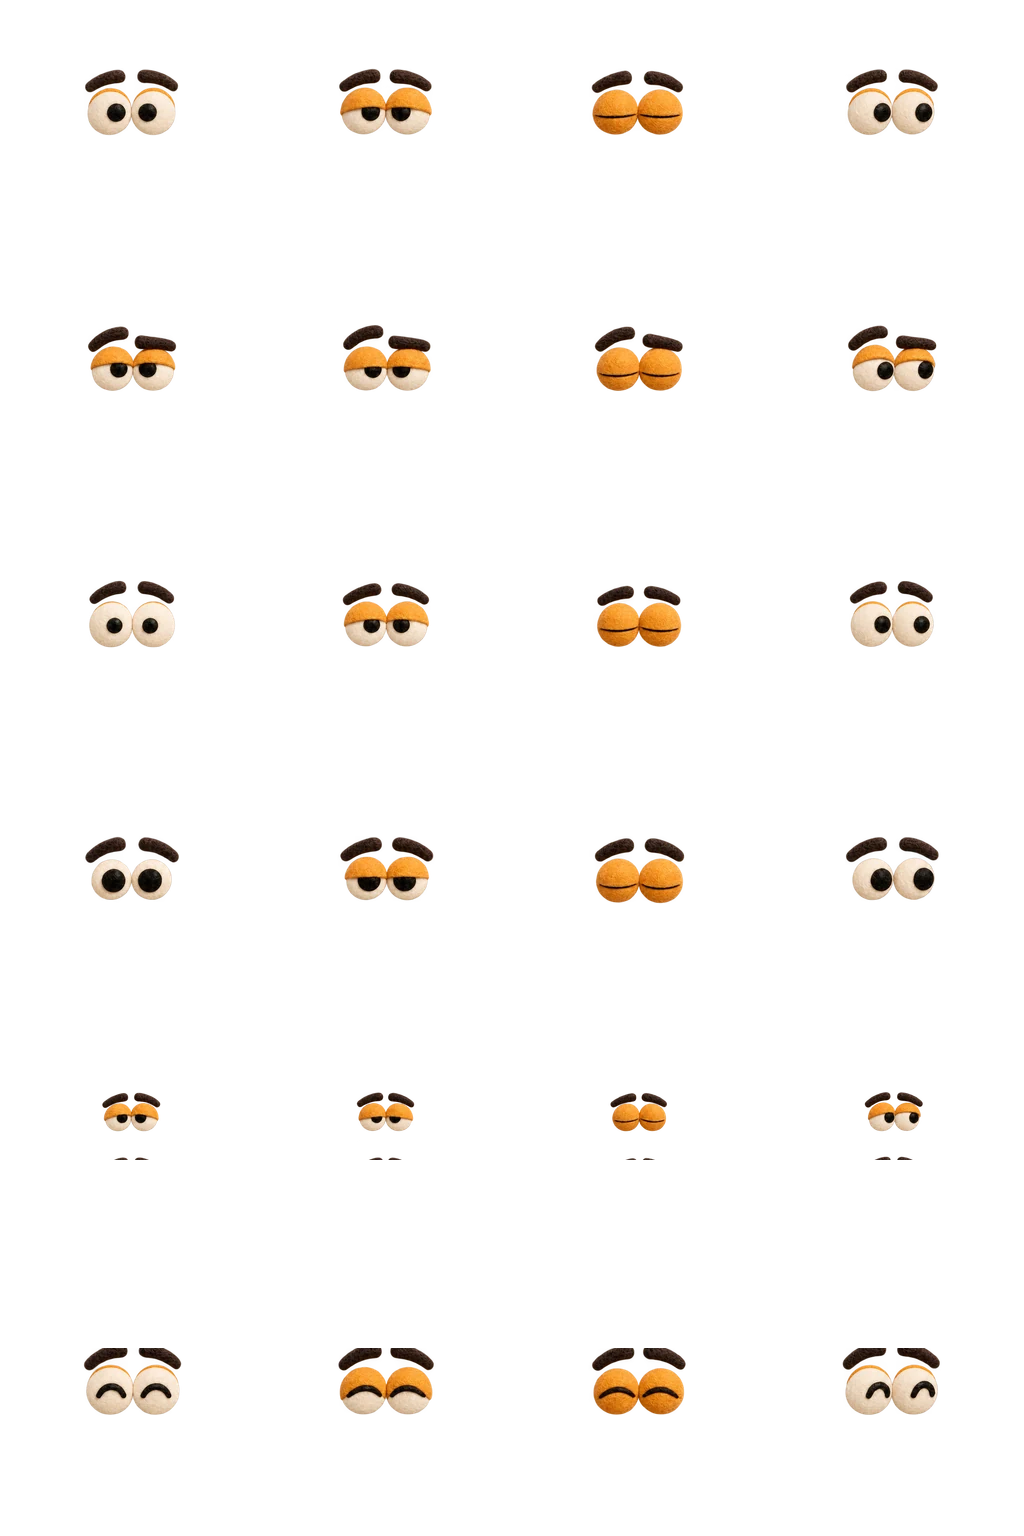
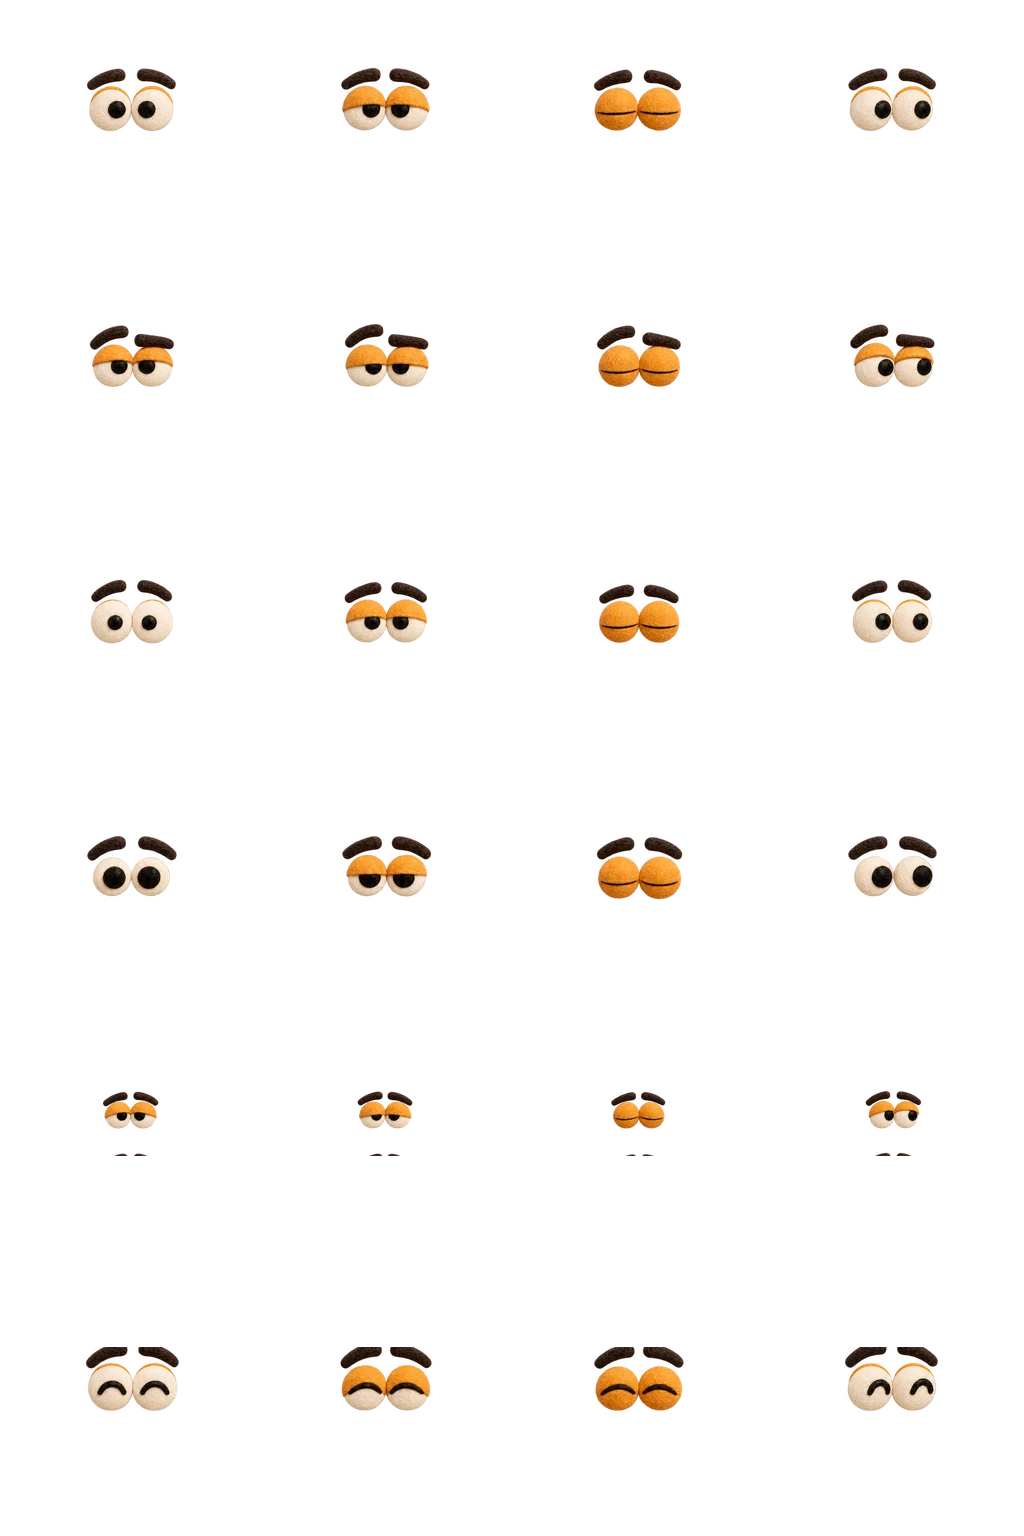
Correct puppet sprite registration, nose layering, garment isolation and uniform creator option grids

diff --git a/sans-voyelles/source/app/components/ProfileEditor.tsx b/sans-voyelles/source/app/components/ProfileEditor.tsx
@@ -8,5 +8,5 @@ export default function ProfileEditor({initial,legacyName='',onSave,onCancel,inR
  useEffect(()=>{const previous=document.activeElement as HTMLElement;const el=dialog.current;el?.querySelector<HTMLInputElement>('input')?.focus();function keyboard(e:KeyboardEvent){if(e.key==='Escape'){e.preventDefault();if(!savingRef.current)cancel.current?.();}if(e.key==='Tab'&&el){const items=Array.from(el.querySelectorAll<HTMLElement>('button:not(:disabled),input:not(:disabled),[tabindex="0"]'));const first=items[0],last=items[items.length-1];if(e.shiftKey&&document.activeElement===first){e.preventDefault();last?.focus()}else if(!e.shiftKey&&document.activeElement===last){e.preventDefault();first?.focus()}}}function keepFocus(e:FocusEvent){if(el&&!el.contains(e.target as Node))el.querySelector<HTMLElement>('input:not(:disabled),button:not(:disabled)')?.focus();}const original=document.body.style.overflow;document.body.style.overflow='hidden';document.addEventListener('keydown',keyboard);document.addEventListener('focusin',keepFocus);return()=>{document.body.style.overflow=original;document.removeEventListener('keydown',keyboard);document.removeEventListener('focusin',keepFocus);previous?.focus();}},[]);
  function step(key:PartKey,delta:number){const part=PARTS.find(p=>p.key===key)!;setAvatar(a=>({...a,[key]:(a[key]+part.options.length+delta)%part.options.length}));}
  async function save(e:React.FormEvent){e.preventDefault();if(saving)return;if(!name.trim()||name.trim().length>20){setError('Choisis un pseudo de 1 à 20 caractères.');return}setSaving(true);setError('');try{await onSave({version:1,name:name.trim(),avatar});}catch(e:any){setError(e.message||'Le profil n’a pas pu être enregistré. Réessaie.');setSaving(false);}}
- return <div className="modal-backdrop profile-backdrop"><div ref={dialog} className="profile-modal" role="dialog" aria-modal="true" aria-labelledby="profile-title">{onCancel&&<button type="button" className="close-modal" onClick={onCancel} disabled={saving} aria-label="Annuler les modifications"><X size={22}/></button>}<div className="eyebrow">{initial?'VOTRE SIGNATURE DANS LE SALON':'AVANT LE PREMIER DÉCLIC'}</div><h2 id="profile-title">{initial?'L’atelier de votre personnage':'Créez votre marionnette'}</h2><p className="profile-intro">De la laine, du feutre et votre grain de folie. Composez votre personnage, pièce par pièce.</p><form onSubmit={save}><fieldset disabled={saving} className="profile-fieldset"><div className="profile-editor-grid"><div className="profile-preview"><div className="avatar-stage"><span className="stage-star star-one">✳</span><Avatar value={avatar} label="Aperçu de votre avatar"/><span className="stage-star star-two">✧</span></div><strong>{name.trim()||'Votre futur pseudo'}</strong><span>UNE MARIONNETTE RIEN QU’À VOUS</span><button type="button" className="shuffle-all" onClick={()=>{setAvatar(a=>randomAvatar(a));setName(n=>randomName(n));}}><Shuffle size={17}/> Tout mélanger</button></div><div className="profile-controls"><div className="name-field"><label htmlFor="profile-name">Votre pseudo</label><div><input id="profile-name" name="pseudo" autoComplete="nickname" maxLength={20} required value={name} placeholder="Ex. KiwiCosmique" onChange={e=>setName(e.target.value)}/><button type="button" className="random-button" onClick={()=>setName(n=>randomName(n))} aria-label="Pseudo aléatoire" title="Pseudo aléatoire"><Shuffle size={17}/></button></div><small>{name.length}/20 caractères · Sauvegardé sur ce navigateur</small></div><div className="avatar-parts felt-parts">{PARTS.map(part=><fieldset className="felt-part" key={part.key}><legend>{part.label}</legend><button type="button" className="part-shuffle" onClick={()=>setAvatar(a=>shufflePart(a,part.key))} aria-label={part.label+' aléatoire'} title={part.label+' aléatoire'}><Shuffle size={15}/></button><div className="part-options" role="group" aria-label={part.label}>{part.options.map((option,i)=><button type="button" key={option} className={avatar[part.key]===i?'selected':''} aria-pressed={avatar[part.key]===i} aria-label={part.label+' : '+option} title={option} onClick={()=>setAvatar(a=>({...a,[part.key]:i}))}><Avatar value={{...avatar,[part.key]:i}} animated={false}/><span>{option}</span>{avatar[part.key]===i&&<Check size={12}/>}</button>)}</div></fieldset>)}</div><div className="color-field"><div><label>Couleur du personnage</label><button type="button" className="random-button" onClick={()=>setAvatar(a=>shuffleColor(a))} aria-label="Couleur aléatoire" title="Couleur aléatoire"><Shuffle size={16}/></button></div><div className="color-swatches" role="group" aria-label="Couleur du personnage">{COLORS.map((c,i)=><button key={c} type="button" style={{background:c}} aria-label={'Couleur '+['citron vert','lavande','pêche','turquoise','soleil','rose','bleu','crème','violet','pistache'][i]} aria-pressed={avatar.color===c} onClick={()=>setAvatar(a=>({...a,color:c}))}>{avatar.color===c&&<Check size={16}/>}</button>)}</div></div></div></div></fieldset>{error&&<div className="notice error" role="alert">{error}</div>}<div className="profile-bottom"><p>{inRoom?'La partie continue pendant les modifications. Votre score est conservé.':'Profil sauvegardé sur ce navigateur pour vos prochaines visites.'}</p><button type="submit" className="primary" disabled={saving}>{saving?'En cours…':initial?'Enregistrer':'C’est moi, on joue !'}<ArrowRight size={18}/></button></div></form></div></div>
+ return <div className="modal-backdrop profile-backdrop"><div ref={dialog} className="profile-modal" role="dialog" aria-modal="true" aria-labelledby="profile-title">{onCancel&&<button type="button" className="close-modal" onClick={onCancel} disabled={saving} aria-label="Annuler les modifications"><X size={22}/></button>}<div className="eyebrow">{initial?'VOTRE SIGNATURE DANS LE SALON':'AVANT LE PREMIER DÉCLIC'}</div><h2 id="profile-title">{initial?'L’atelier de votre personnage':'Créez votre marionnette'}</h2><p className="profile-intro">De la laine, du feutre et votre grain de folie. Composez votre personnage, pièce par pièce.</p><form onSubmit={save}><fieldset disabled={saving} className="profile-fieldset"><div className="profile-editor-grid"><div className="profile-preview"><div className="avatar-stage"><span className="stage-star star-one">✳</span><Avatar value={avatar} label="Aperçu de votre avatar"/><span className="stage-star star-two">✧</span></div><strong>{name.trim()||'Votre futur pseudo'}</strong><span>UNE MARIONNETTE RIEN QU’À VOUS</span><button type="button" className="shuffle-all" onClick={()=>{setAvatar(a=>randomAvatar(a));setName(n=>randomName(n));}}><Shuffle size={17}/> Tout mélanger</button></div><div className="profile-controls"><div className="name-field"><label htmlFor="profile-name">Votre pseudo</label><div><input id="profile-name" name="pseudo" autoComplete="nickname" maxLength={20} required value={name} placeholder="Ex. KiwiCosmique" onChange={e=>setName(e.target.value)}/><button type="button" className="random-button" onClick={()=>setName(n=>randomName(n))} aria-label="Pseudo aléatoire" title="Pseudo aléatoire"><Shuffle size={17}/></button></div><small>{name.length}/20 caractères · Sauvegardé sur ce navigateur</small></div><div className="avatar-parts felt-parts">{PARTS.map(part=><fieldset className="felt-part" key={part.key}><legend>{part.label}</legend><button type="button" className="part-shuffle" onClick={()=>setAvatar(a=>shufflePart(a,part.key))} aria-label={part.label+' aléatoire'} title={part.label+' aléatoire'}><Shuffle size={15}/></button><div className="part-options" role="group" aria-label={part.label}>{part.options.map((option,i)=><button type="button" key={option} className={avatar[part.key]===i?'selected':''} aria-pressed={avatar[part.key]===i} aria-label={part.label+' : '+option} title={option} onClick={()=>setAvatar(a=>({...a,[part.key]:i}))}><Avatar value={{...avatar,[part.key]:i}} animated={false}/><span>{option}</span>{avatar[part.key]===i&&<Check size={12}/>}</button>)}{Array.from({length:7-part.options.length},(_,i)=><span className="part-placeholder" aria-hidden="true" key={'empty-'+i}/>)}</div></fieldset>)}</div><div className="color-field"><div><label>Couleur du personnage</label><button type="button" className="random-button" onClick={()=>setAvatar(a=>shuffleColor(a))} aria-label="Couleur aléatoire" title="Couleur aléatoire"><Shuffle size={16}/></button></div><div className="color-swatches" role="group" aria-label="Couleur du personnage">{COLORS.map((c,i)=><button key={c} type="button" style={{background:c}} aria-label={'Couleur '+['citron vert','lavande','pêche','turquoise','soleil','rose','bleu','crème','violet','pistache'][i]} aria-pressed={avatar.color===c} onClick={()=>setAvatar(a=>({...a,color:c}))}>{avatar.color===c&&<Check size={16}/>}</button>)}</div></div></div></div></fieldset>{error&&<div className="notice error" role="alert">{error}</div>}<div className="profile-bottom"><p>{inRoom?'La partie continue pendant les modifications. Votre score est conservé.':'Profil sauvegardé sur ce navigateur pour vos prochaines visites.'}</p><button type="submit" className="primary" disabled={saving}>{saving?'En cours…':initial?'Enregistrer':'C’est moi, on joue !'}<ArrowRight size={18}/></button></div></form></div></div>
 }

diff --git a/sans-voyelles/source/app/puppet.css b/sans-voyelles/source/app/puppet.css
@@ -8,3 +8,12 @@
 @media(max-width:900px){.hero-art{height:330px}.hero-mascot{width:230px;height:230px;left:calc(50% - 115px)}.hero-mascot>.felt-avatar{width:230px;height:230px}.word-card{transform:translateY(95px) rotate(-5deg)}.profile-editor-grid{grid-template-columns:245px minmax(0,1fr);gap:20px}.avatar-stage{width:220px;height:240px}.avatar-stage>.felt-avatar{width:220px;height:220px}.profile-preview{padding:14px 8px}.profile-modal{padding:26px 22px}.part-options{gap:3px}.part-options>button{min-height:62px}.part-options>button>span:last-of-type{font-size:7px}.leaderboard .avatar{width:48px;height:48px}.leaderboard .avatar .avatar-reaction{left:35px}.profile-controls{max-height:calc(88dvh - 200px)}}
 @media(max-width:650px){.hero h1{font-size:37px;letter-spacing:-1.8px}.hero-art{height:325px;scale:1;overflow:visible;margin:0}.hero-mascot{width:245px;height:245px;left:calc(50% - 122px);top:-7px}.hero-mascot>.felt-avatar{width:245px;height:245px}.word-card{width:255px;transform:translateY(104px) rotate(-4deg)}.hero{padding-bottom:38px}.profile-button>.felt-avatar{width:33px;height:33px}.brand-sub{font-size:7px}.game-layout{grid-template-rows:132px 360px 370px}.game-layout>.arena{height:360px;padding:13px 12px;border-width:5px}.arena.revealing .puzzle{padding:8px 0;gap:8px}.arena.revealing .reveal-content{grid-template-columns:minmax(0,1fr) minmax(0,1fr);gap:11px}.arena.revealing .answer-art{width:100%;height:100%;min-height:0;max-height:100%}.arena.revealing .reveal-content h2{font-size:23px;letter-spacing:-.6px}.arena.revealing .reveal-content p{font-size:11px}.arena.revealing .image-credit{font-size:9px}.arena .podium-bars .felt-avatar{width:52px;height:52px}.game-layout>.room-chat{padding:12px}.profile-backdrop{padding:8px}.profile-modal{padding:24px 15px 16px;max-height:96dvh;border-radius:20px}.profile-modal h2{font-size:25px;letter-spacing:-.7px;margin-right:18px}.profile-intro{font-size:11px;line-height:1.5;margin-bottom:14px}.profile-editor-grid{display:flex;flex-direction:column;gap:16px}.profile-preview{position:static;width:100%;padding:9px 13px;display:grid;grid-template-columns:116px minmax(0,1fr);grid-template-rows:auto auto auto;column-gap:14px;text-align:left}.avatar-stage{grid-row:span 3;grid-column:1;width:116px;height:120px;margin:0}.avatar-stage>.felt-avatar{width:120px;height:120px}.profile-preview>strong{font-size:18px;align-self:end}.profile-preview>span{font-size:6px;margin-top:5px;align-self:start;line-height:1.5}.shuffle-all{margin-top:6px;font-size:10px;min-height:33px;padding:6px 8px}.stage-star{display:none}.profile-controls{max-height:none;width:100%;overflow:visible;padding:0}.name-field input{font-size:16px}.name-field small{font-size:9px}.felt-part{margin-bottom:13px}.felt-part legend{font-size:11px;margin-bottom:5px}.part-options{gap:4px;grid-template-columns:repeat(7,minmax(0,1fr))}.part-options>button{min-height:63px;padding:4px 1px;gap:3px;border-radius:8px}.part-options>button.selected{padding:3px 0}.part-options>button>span:last-of-type{font-size:7px}.part-options>button>svg{width:13px;height:13px;padding:1px}.part-shuffle{top:-30px;min-height:25px}.profile-bottom{margin-top:16px;padding-top:12px;gap:10px}.profile-bottom p{font-size:9px;line-height:1.5}.profile-bottom .primary{width:100%;font-size:12px;min-height:44px}.color-swatches{gap:10px}.color-swatches button{width:25px;height:25px}}
 @media(prefers-reduced-motion:reduce){.puppet-layer{transition:none!important;animation:none!important}.room-card{transition:none}.room-card:hover{transform:none}}
+
+/* Registration fix: one nose anchor, bounded part thumbnails and uniform rows. */
+.puppet-nose{clip-path:ellipse(7.8% 7.8% at 50% 50%)}.felt-part legend{margin-bottom:8px;padding:0;float:none}.felt-part{padding-top:0;margin-bottom:16px}.part-options{grid-template-columns:repeat(7,minmax(0,1fr));align-items:stretch}.part-options>button{height:88px;min-height:88px;box-sizing:border-box;padding:4px 2px 6px;justify-content:flex-end}.part-options>button.selected{padding:3px 1px 5px}.part-options>button>.felt-avatar{position:absolute;top:3px;left:50%;width:64px;height:64px;max-width:calc(100% - 6px);aspect-ratio:1;translate:-50% 0}.part-options>button>span:last-of-type{display:block;width:100%;text-align:center;font-size:8px;line-height:14px;min-height:14px;margin-top:65px;white-space:nowrap}.part-options>.part-placeholder{min-width:0;height:88px;border:1px dashed #e0d1b0;border-radius:10px;opacity:.38;background:#f5eedc}.part-shuffle{top:-34px}.profile-preview>.avatar-stage{overflow:hidden;border-radius:14px}.felt-avatar{overflow:hidden}.leaderboard .avatar,.avatar-stage{overflow:visible}.profile-preview .felt-avatar{overflow:hidden}
+@media(max-width:900px){.part-options>button,.part-options>.part-placeholder{height:74px;min-height:74px}.part-options>button>.felt-avatar{width:52px;height:52px}.part-options>button>span:last-of-type{margin-top:53px;line-height:12px;font-size:7px}}
+@media(max-width:650px){.part-options>button,.part-options>.part-placeholder{height:66px;min-height:66px}.part-options>button>.felt-avatar{top:4px;width:43px;height:43px;max-width:calc(100% - 4px)}.part-options>button>span:last-of-type{margin-top:44px;line-height:12px;font-size:7px}.part-options{gap:4px}}
+/* Thumbnail canvases stay square even when a narrow option limits their width. */
+.part-options>button>.felt-avatar{width:min(64px,calc(100% - 6px));height:auto;max-width:none;aspect-ratio:1;overflow:hidden}
+@media(max-width:900px){.part-options>button>.felt-avatar{width:min(52px,calc(100% - 6px));height:auto}}
+@media(max-width:650px){.part-options>button>.felt-avatar{width:min(43px,calc(100% - 4px));height:auto}}

diff --git a/sans-voyelles/source/app/components/Avatar.tsx b/sans-voyelles/source/app/components/Avatar.tsx
@@ -9,8 +9,8 @@ function updateClock(){if(timer){clearInterval(timer);timer=undefined;}if(listen
 function subscribe(listener:()=>void){listeners.add(listener);if(listeners.size===1){motion=window.matchMedia('(prefers-reduced-motion: reduce)');document.addEventListener('visibilitychange',updateClock);motion.addEventListener('change',updateClock);updateClock();}return()=>{listeners.delete(listener);if(!listeners.size){if(timer)clearInterval(timer);timer=undefined;document.removeEventListener('visibilitychange',updateClock);motion?.removeEventListener('change',updateClock);}};}
 export default function Avatar({value,className='',label,animated=true,emotion}:{value?:AvatarData;className?:string;label?:string;animated?:boolean;emotion?:string}){
  const a=cleanAvatar(value),id=useId();const tick=useSyncExternalStore(animated?subscribe:noSubscribe,animated?read:zero,zero);const seed=Array.from(id).reduce((sum,c)=>sum+c.charCodeAt(0),a.shape*11+a.hair*7);const frame=animated&&tick?puppetFrames(tick,seed,!!emotion):{body:0,eyes:0,mouth:0};const color=feltColor(a.color);
- const layer=(name:string,col:number,row:number,columns:number,rows:number,tint=false)=><span key={name} className={'puppet-layer puppet-'+name} aria-hidden="true" style={{backgroundImage:`url(/puppets/${name==='hair'||name==='accessory'||name==='outfit'?'parts':name}.webp)`,...atlasPosition(col,row,columns,rows),...(tint?{filter:color}:{})}}/>;
+ const layer=(name:string,col:number,row:number,columns:number,rows:number,tint=false)=><span key={name} className={'puppet-layer puppet-'+name} aria-hidden="true" style={{backgroundImage:`url(/puppets/${name==='hair'||name==='accessory'||name==='outfit'?'parts':name==='nose'?'body':name}.webp?v=2)`,...atlasPosition(col,row,columns,rows),...(tint?{filter:color}:{})}}/>;
  return <span className={'cartoon-avatar felt-avatar '+className} role={label?'img':undefined} aria-label={label} aria-hidden={label?undefined:true} data-puppet="felt" data-frames={`${frame.body},${frame.eyes},${frame.mouth}`}>
- {layer('body',frame.body,a.shape,3,6,true)}{layer('outfit',a.outfit,2,7,3)}{layer('eyes',frame.eyes,a.eyes,4,6,true)}{layer('mouth',frame.mouth,a.mouth,4,6,true)}{a.hair>0&&layer('hair',a.hair,0,7,3)}{a.accessory>0&&layer('accessory',a.accessory,1,7,3)}
+ {layer('outfit',a.outfit,2,7,3)}{layer('body',frame.body,a.shape,3,6,true)}{layer('eyes',frame.eyes,a.eyes,4,6,true)}{layer('mouth',frame.mouth,a.mouth,4,6,true)}{layer('nose',frame.body,a.shape,3,6,true)}{a.hair>0&&layer('hair',a.hair,0,7,3)}{a.accessory>0&&layer('accessory',a.accessory,1,7,3)}
  </span>;
 }

diff --git a/sans-voyelles/source/app/layout.tsx b/sans-voyelles/source/app/layout.tsx
@@ -2,4 +2,4 @@ import type { Metadata } from 'next';
 import './globals.css';
 import './puppet.css';
 export const metadata:Metadata={title:'Sans voyelles — Les mots ont disparu. À vous de jouer.',description:'20 secondes, des consonnes et un déclic. Un jeu de culture générale multijoueur.'};
-export default function Layout({children}:{children:React.ReactNode}){return <html lang="fr"><head>{["body","parts","eyes","mouth"].map(name=><link key={name} rel="preload" as="image" href={"/puppets/"+name+".webp"}/>)}</head><body>{children}</body></html>}
+export default function Layout({children}:{children:React.ReactNode}){return <html lang="fr"><head>{["body","parts","eyes","mouth"].map(name=><link key={name} rel="preload" as="image" href={"/puppets/"+name+".webp?v=2"}/>)}</head><body>{children}</body></html>}

diff --git a/sans-voyelles/README.md b/sans-voyelles/README.md
@@ -24,13 +24,13 @@ Accents, espaces, ponctuation et ligatures œ/æ sont normalisés. Une faute (y 
 
 ## Profils
 
-Pseudo et avatar personnalisables, sauvegardés dans le navigateur. Marionnettes en feutre composées de six catégories : visage, coiffure, yeux, bouche, accessoires et vêtements, plus dix couleurs. Choix visuels par vignettes et prévisualisation animée ; aléatoire pour chaque élément, pour le pseudo et pour tout mélanger. Les modifications en partie conservent le score. Les anciens profils sont migrés avec une tenue par défaut. Les yeux, les bouches et les poses du buste sont des images de sprite distinctes, assemblées en couches et animées sans transformation CSS du personnage. Les vignettes restent statiques ; les animations respectent le mouvement réduit et s’arrêtent lorsque l’onglet est caché. L’interface reprend le papier, le tissu et les coutures de l’atelier. Les affiches de réponse remplissent la place disponible sans déformation ni déplacement du chat. Détails dans [`source/data/PUPPET_ASSETS.md`](source/data/PUPPET_ASSETS.md).
+Pseudo et avatar personnalisables, sauvegardés dans le navigateur. Marionnettes en feutre composées de six catégories : visage, coiffure, yeux, bouche, accessoires et vêtements, plus dix couleurs. Choix visuels par vignettes et prévisualisation animée ; aléatoire pour chaque élément, pour le pseudo et pour tout mélanger. Les modifications en partie conservent le score. Les anciens profils sont migrés avec une tenue par défaut. Les yeux, les bouches et les poses du buste sont des images de sprite distinctes, assemblées en couches et animées sans transformation CSS du personnage. Les vignettes restent statiques ; les animations respectent le mouvement réduit et s’arrêtent lorsque l’onglet est caché. L’interface reprend le papier, le tissu et les coutures de l’atelier. Les affiches de réponse remplissent la place disponible sans déformation ni déplacement du chat. Les pièces sont recalées sur le même ancrage du nez pour toutes les poses, sans fragments de cellules voisines ; le nez repasse devant les yeux et le buste reste derrière la tête. Les rangées de choix partagent sept colonnes et des vignettes carrées. Détails dans [`source/data/PUPPET_ASSETS.md`](source/data/PUPPET_ASSETS.md).
 
 ## Architecture
 
 TypeScript, React, Vinext / Vite, Cloudflare Workers et D1. Validation des réponses, chronomètre et points côté serveur ; écritures concurrentes protégées par un numéro de révision. Les réponses ne sont pas envoyées au navigateur avant la révélation. Illustrations depuis Wikipédia / Wikimedia Commons, avec lien vers les crédits et affichage de secours.
 
-Les sources publiées correspondent à la version déployée `5b77d6559da4dca60d22173fd64d2309a50b627c`. Aucun identifiant de déploiement, secret ou état de base de données n’est inclus.
+Les sources publiées correspondent à la version déployée `07110513cf9c4a9b24f113a4e088e1645ba8930a`. Aucun identifiant de déploiement, secret ou état de base de données n’est inclus.
 
 ## Développement
 

diff --git a/sans-voyelles/source/data/PUPPET_ASSETS.md b/sans-voyelles/source/data/PUPPET_ASSETS.md
@@ -18,3 +18,7 @@ Les images générées ont été découpées, enregistrées sur leur repère et 
 Contrôle des atlas : `node tests/puppet.test.mjs` vérifie les dimensions, la transparence, les images réellement distinctes et la sélection des poses. La sauvegarde et la migration des vêtements sont contrôlées dans les tests de profils et d’API.
 
 Les illustrations de réponse utilisent la place disponible du panneau central avec `object-fit: contain`. L’affiche et le texte disposent de zones indépendantes et le chat garde sa hauteur réservée.
+
+## Recalage des pièces
+
+Les zones source des trois rangées de pièces sont mesurées séparément : les dessins générés débordaient d’une division mathématique en tiers. Les petits fragments provenant d’un élément voisin sont retirés avant la mesure. Chaque silhouette et pose partage désormais un ancrage du nez à (128, 128) ; la jonction du cou est repérée avant de séparer la tête du buste. Les vêtements sont placés derrière la tête et le nez repasse devant les yeux. Les rangées du créateur réservent toutes sept cases et les vignettes gardent un canevas carré. Un test vérifie l’ancrage des dix-huit poses.
